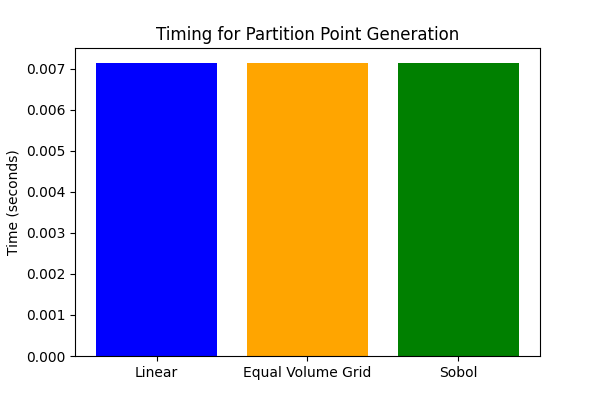
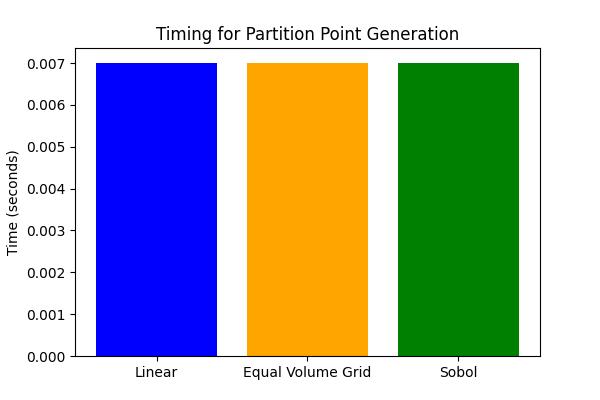
Grid Spaced Placing

diff --git a/modules/init.py b/modules/init.py
@@ -7,6 +7,9 @@ This module handles:
 3. Optimizing individual submolecules
 4. Creating simulation boxes
 5. Generating initial random configurations
+
+
+TODO: Check the grid based method and make a final comparison for the thesis
 """
 
 import numpy as np
@@ -155,6 +158,10 @@ class ClusterInitializer:
         n_workers: int = 1,
         n_configurations: int = 10000,
         placing_method: str = "random",
+        grid_spacing: Optional[str] = "sobol",
+        n_theta: Optional[int] = None,
+        n_phi: Optional[int] = None,
+        n_r: Optional[int] = None,
         energy_backend: str= "xtb",
         energy_xtb_method: str = "GFN2-xTB",
     ) -> Tuple[Molecule, List[List[int]], SimulationBox]:
@@ -169,7 +176,15 @@ class ClusterInitializer:
             xyz_file: Path to XYZ file containing molecular structure
             n_workers: Number of configurations to return (e.g, one per BHMC worker)
             n_configurations: Number of random configurations to generate for pre-screening
-            placing_method: Placement method for initial coordinates ("random" or "sobol")
+            placing_method: Placement method for initial coordinates ("random" or "sobol", "grid")
+
+
+        For the grid based placement method, the following additional parameters can be used:
+            grid_spacing: Method to space points in the grid ("linear", "equal_volume_grid", or "sobol")
+            n_theta: Number of points in theta direction (for spherical)
+            n_phi: Number of points in phi direction (for spherical)
+
+
                 energy_backend: Backend to use for energy evaluation ("xtb", "ase_emt", or "psi4")
                     energy_xtb_method: Method to use for xTB energy evaluation (e.g., "GFN2-xTB")
 
@@ -215,6 +230,10 @@ class ClusterInitializer:
             simulation_box = simulation_box,
             n_configurations = n_configurations,
             placing_method = placing_method,
+            grid_spacing = grid_spacing,
+            n_theta = n_theta,
+            n_phi = n_phi,
+            n_r = n_r,
         )
 
         # Step 5b: Energy prescreening and ranking
@@ -235,9 +254,15 @@ class ClusterInitializer:
             else:
                 failed += 1
         self._log(f"\nEnergy evaluation complete: {len(scored)} successful, {failed} failed")
+        
+        if len(scored) == 0:
+            raise RuntimeError("All energy evaluations failed. Cannot select initial configurations.")
         scored.sort(key=lambda x: x[0])
         selected_molecules = [mol for _, mol in scored[:n_workers]]
         e_min = scored[0][0]
+        if len(scored) < n_workers:
+            self._log(f"Warning: Only {len(scored)} valid configurations found, but n_workers={n_workers}. Returning all valid configurations.")
+            n_workers = len(scored)
         e_max = scored[n_workers - 1][0]
         self._log(
             f"Pre-screening complete: valid = {len(scored)}, failed = {failed}, "
@@ -271,6 +296,10 @@ class ClusterInitializer:
             simulation_box: SimulationBox,
             n_configurations: int = 1,
             placing_method: str = "random",
+            grid_spacing: Optional[str] = "sobol",
+            n_theta: Optional[int] = None,
+            n_phi: Optional[int] = None,
+            n_r: Optional[int] = None,
         ) -> List[Molecule]:
         """   
         Helper function to generate multiple random initial configurations inside the simulation box
@@ -279,19 +308,57 @@ class ClusterInitializer:
             submolecules: List of submolecules to place
             simulation_box: Simulation box to place molecules in
             n_configurations: Number of random configurations to generate
-            placing_method: Placement method for initial coordinates ("random" or "sobol")
+            placing_method: Placement method for initial coordinates ("random" or "sobol", "grid")
+        
+        If one chooses the grid based placing method, the following additional parameters can be used
+            grid_spacing: Method to space points in the grid ("linear", "equal_volume_grid", or "sobol")
+            n_theta: Number of points in theta direction (for spherical)
+            n_phi: Number of points in phi direction (for spherical)
+            n_r: Number of points in radial direction (for spherical)
         """
+        if n_configurations <= 0:
+            raise ValueError("n_configurations must be > 0")
 
-        configurations = []
-        for config_idx in range(n_configurations):
+        # Check and parse method
+        method = (placing_method or "random").lower().strip()
+        if method not in {"random", "sobol", "grid"}:
+            raise ValueError(f"Invalid placing method: {placing_method}. Choose from 'random', 'sobol', or 'grid'.")
+        
+        # Check and parse spacing
+        spacing = (grid_spacing or "sobol").lower().strip()
+
+
+        if method == "grid":
+            if spacing not in {"linear", "equal_volume_grid", "sobol"}:
+                raise ValueError(f"Invalid grid spacing method: {grid_spacing}. Choose from 'linear', 'equal_volume_grid', or 'sobol'.")
+            
+            # Set default for the grid parameters based on the number of configurations
+            # Partition the configurations evenly across the grid dimensions
+            if n_theta is None or n_phi is None or n_r is None:
+                n_submols = len(submolecules)
+                n_per_submol = max(1, n_configurations // n_submols)
+                n_theta = n_phi = n_r = int(np.ceil(n_per_submol ** (1/3)))
+                self._log(f"Grid spacing selected. Setting n_theta = n_phi = n_r = {n_theta} to generate at least {n_configurations} configurations.")
+            self._log(f"Generating grid-based configurations with spacing: {spacing}, n_theta: {n_theta}, n_phi: {n_phi}, n_r: {n_r}")
+        
+        else:
+            # Not needed outside of the grid
+            spacing = n_theta = n_phi = n_r = None
+         
+        configurations: List[Molecule] = []
+        for _ in range(n_configurations):
             mol = self._generate_configuration(
-                submolecules,
-                simulation_box,
-                placing_method=placing_method,
+                submolecules = submolecules,
+                simulation_box = simulation_box,
+                placing_method=method,
+                grid_spacing=spacing,
+                n_theta=n_theta,
+                n_phi=n_phi,
+                n_r=n_r,
             )
             configurations.append(mol)
-        return configurations 
-
+        return configurations
+        
 
 
     def _load_molecule(self, xyz_file: str) -> Molecule:
@@ -445,6 +512,10 @@ class ClusterInitializer:
         submolecules: List[Molecule], 
         simulation_box: SimulationBox,
         placing_method: str = "random",
+        grid_spacing: Optional[str] = None,
+        n_theta: Optional[int] = None,
+        n_phi: Optional[int] = None,
+        n_r: Optional[int] = None,
     ) -> Molecule:
         """
         Generate random initial configuration inside simulation box.
@@ -454,26 +525,60 @@ class ClusterInitializer:
             simulation_box: Simulation box to place molecules in
             placing_method: Method to place molecules:
                 - "random" for random placement with distance checks
-                - "partition" partition based placemement in the simulation box (for spherical currently)
                 - "sobol" for low-discrepancy sequence placement
+                - "grid" for systematic grid-based placement (requires additional parameters)
+            
                 
         """
         
         if len(submolecules) == 0:
             raise ValueError("No submolecules to place")
         
-
-        method = placing_method.lower().strip()
+        method = (placing_method or "random").lower().strip(    )
         
         if method not in {"random", "grid", "sobol"}:
             raise ValueError(f"Invalid placing method: {placing_method}. "
                              "Choose from 'random', 'grid', or 'sobol'.")
 
         sobol_engine = None
+        sobol_engine_rotation = None
         if method == "sobol":
             sobol_engine = qmc.Sobol(d=3, scramble=True)
             sobol_engine_rotation = qmc.Sobol(d=3, scramble=True)
         
+        partition_points = None
+        partition_perm = None
+        partition_ptr = None
+        if method == "grid":
+            if simulation_box.box_type != "sphere":
+                raise ValueError("Grid-based placement is currently only implemented for spherical boxes.")
+            
+            spacing = (grid_spacing or "sobol").lower().strip()
+            if spacing not in {"linear", "equal_volume_grid", "sobol"}:
+                raise ValueError(f"Invalid grid spacing method: {grid_spacing}. Choose from 'linear', 'equal_volume_grid', or 'sobol'.")
+            
+            # Choose n_theta, n_phi, n_r based on config or defaults
+            n_theta = 10 if n_theta is None else int(n_theta)
+            n_phi = 10 if n_phi is None else int(n_phi)
+            n_r = 5 if n_r is None else int(n_r)
+            if n_theta <= 0 or n_phi <= 0 or n_r <= 0:
+                raise ValueError("n_theta, n_phi, and n_r must be positive integers for grid placement.")
+            
+            partition_points = self.generate_partition_points(
+                center=simulation_box.center,
+                radius=simulation_box.radius,
+                n_partitions=len(submolecules),
+                n_theta=n_theta,
+                n_phi=n_phi,
+                n_r=n_r,
+                spacing=spacing,
+                sobol_scramble=True,
+                sobol_seed=None
+            )
+            # Randomize traversal per partition ot avoid starting always at same points
+            partition_perm = [np.random.permutation(len(points)) for points in partition_points]
+            # Pointers to track next point in each partition
+            partition_ptr = [0] * len(submolecules)
 
         placed_coords = np.empty((0, 3))
         placed_atoms = []
@@ -515,6 +620,19 @@ class ClusterInitializer:
                     else:
                         raise ValueError(f"Unsupported box type for Sobol placement: {simulation_box.box_type}")
                 
+                # Grid based mode
+                else:
+
+                    # Get next point from the current partition's list
+                    perm = partition_perm[i]
+                    ptr = partition_ptr[i]
+                    if ptr >= len(perm):
+                        break
+
+                    p_idx = perm[ptr]
+                    partition_ptr[i] = ptr + 1
+                    position = partition_points[i][p_idx]
+
                 # Sample Random Rotation
                 if method == "sobol":
                     rotation_matrix = self._sobol_rotation_matrix(sobol_engine_rotation)
@@ -522,8 +640,6 @@ class ClusterInitializer:
                     rotation_matrix = self._random_rotation_matrix()
             
                 rotated_coords = (rotation_matrix @ centered_coords.T).T
-                
-                # Translate to new position
                 new_coords = rotated_coords + position
                 
                 # Check distance constraints
@@ -863,6 +979,64 @@ def test_initializer(xyz_file: str,
     except Exception as e:
         print(f"\nInitialization failed with error: {e}")
 
+def test_submolecule_partition_mapping(
+        initial_molecules: List[Molecule],
+        submol_indices: List[List[int]],
+        simulation_box: SimulationBox,
+        atol: float = 1e-10,
+        verbose: bool = True
+        ) -> bool:
+        """
+        Function that verifies that submolecule i is placed in the partition i of the sphere
+
+        Returns:
+            True if the mapping is correct, False otherwise
+        """
+        if simulation_box.box_type != "sphere":
+            raise ValueError("Submolecule partition mapping test is only applicable for spherical boxes.")
+        
+        if len(submol_indices) == 0:
+            raise ValueError("No submolecules to test")
+        
+        center = np.asarray(simulation_box.center, dtype=np.float64)
+        n_submols = len(submol_indices)
+        partitions = ClusterInitializer.partition_sphere(center, simulation_box.radius, n_submols)
+
+        failures = []
+
+        for cfg_idx, mol in enumerate(initial_molecules):
+            for i, atom_idx in enumerate(submol_indices):
+                idx = np.asarray(atom_idx, dtype=int)
+                sub_coords = mol.coordinates[idx]
+                submol_masses = mol.masses[idx]
+
+                # Calculate com
+                com = np.average(sub_coords, axis=0, weights=submol_masses)
+                rel = com - center
+
+                # Azimuth angle in [0, 2pi)]
+                theta = np.arctan2(rel[1], rel[0])
+                if theta < 0:
+                    theta += 2 * np.pi
+
+                start_angle, end_angle = partitions[i]
+
+                # Partitions are contigous [start, end) we allow tiny tolerance
+                # for the last partition include the right edge ~2*pi
+                if i == n_submols - 1:
+                    ok = (theta >= start_angle - atol) and (theta <= end_angle + atol)
+                else:
+                    ok = (theta >= start_angle - atol) and (theta < end_angle + atol)
+                
+        if verbose:
+            if not failures:
+                print(f"\nSubmolecule partition mapping test passed for all {len(initial_molecules)} configurations.")
+            else:
+                print(f"\nSubmolecule partition mapping test failed for {len(failures)} cases:")
+                for cfg_idx, sub_idx, theta, start, end in failures:
+                    print(f"  Configuration {cfg_idx+1}, Submolecule {sub_idx+1}: theta={theta:.4f} not in [{start:.4f}, {end:.4f})")
+        return len(failures) == 0
+
 if __name__ == "__main__":
     """  
     Run test when module is executed directly
@@ -987,8 +1161,52 @@ if __name__ == "__main__":
     plt.ylabel('Time (seconds)')
     plt.title('Timing for Partition Point Generation')
     plt.savefig("figures/partition_point_generation_timing.png")
+    
 
-      
+    print("\n" + "="*80)
+    print("Grid Placement Test for H2O-Dimer")
+
+    h2o_dimer_xyz = "/media/storage_6/lme/master_thesis/cluster_generation/test_molecules/h2o_2.xyz"
+    
+    grid_config = InitializationConfig(
+        method="hf",
+        basis="cc-pvdz",
+        optimize_submolecules=True,
+        box_type="sphere",
+        box_scale_factor=2.5,
+        min_distance=2.0,
+        verbose=True
+    )
+    grid_initializer = ClusterInitializer(config=grid_config)
+
+    grid_initial_molecules, grid_submol_indices, grid_simulation_box = grid_initializer.initialize_from_xyz(
+        xyz_file=h2o_dimer_xyz,
+        n_workers=10,
+        n_configurations=50,
+        placing_method="grid",
+        grid_spacing="sobol",
+        n_theta=8,
+        n_phi=8,
+        n_r=6,
+        energy_backend="xtb",
+        energy_xtb_method="GFN2-xTB"
+    )
+
+    print(f"\nGrid placement test completed. Generated {len(grid_initial_molecules)} configurations with grid-based placement and Sobol spacing.")
+    print(f"Number of submolecules: {len(grid_submol_indices)}")
+    print(f"Simulation box type: {grid_simulation_box.box_type}, Volume: {grid_simulation_box.get_volume():.2f} Angstrom^3")
+
+    # Test partition mapping
+    ok_partition_mapping = test_submolecule_partition_mapping(
+        initial_molecules=grid_initial_molecules,
+        submol_indices=grid_submol_indices,
+        simulation_box=grid_simulation_box,
+        atol=1e-8,
+        verbose=True
+    )
+    print(f"\nSubmolecule partition mapping test result: {'Passed' if ok_partition_mapping else 'Failed'}") 
+
+
 
 
 
